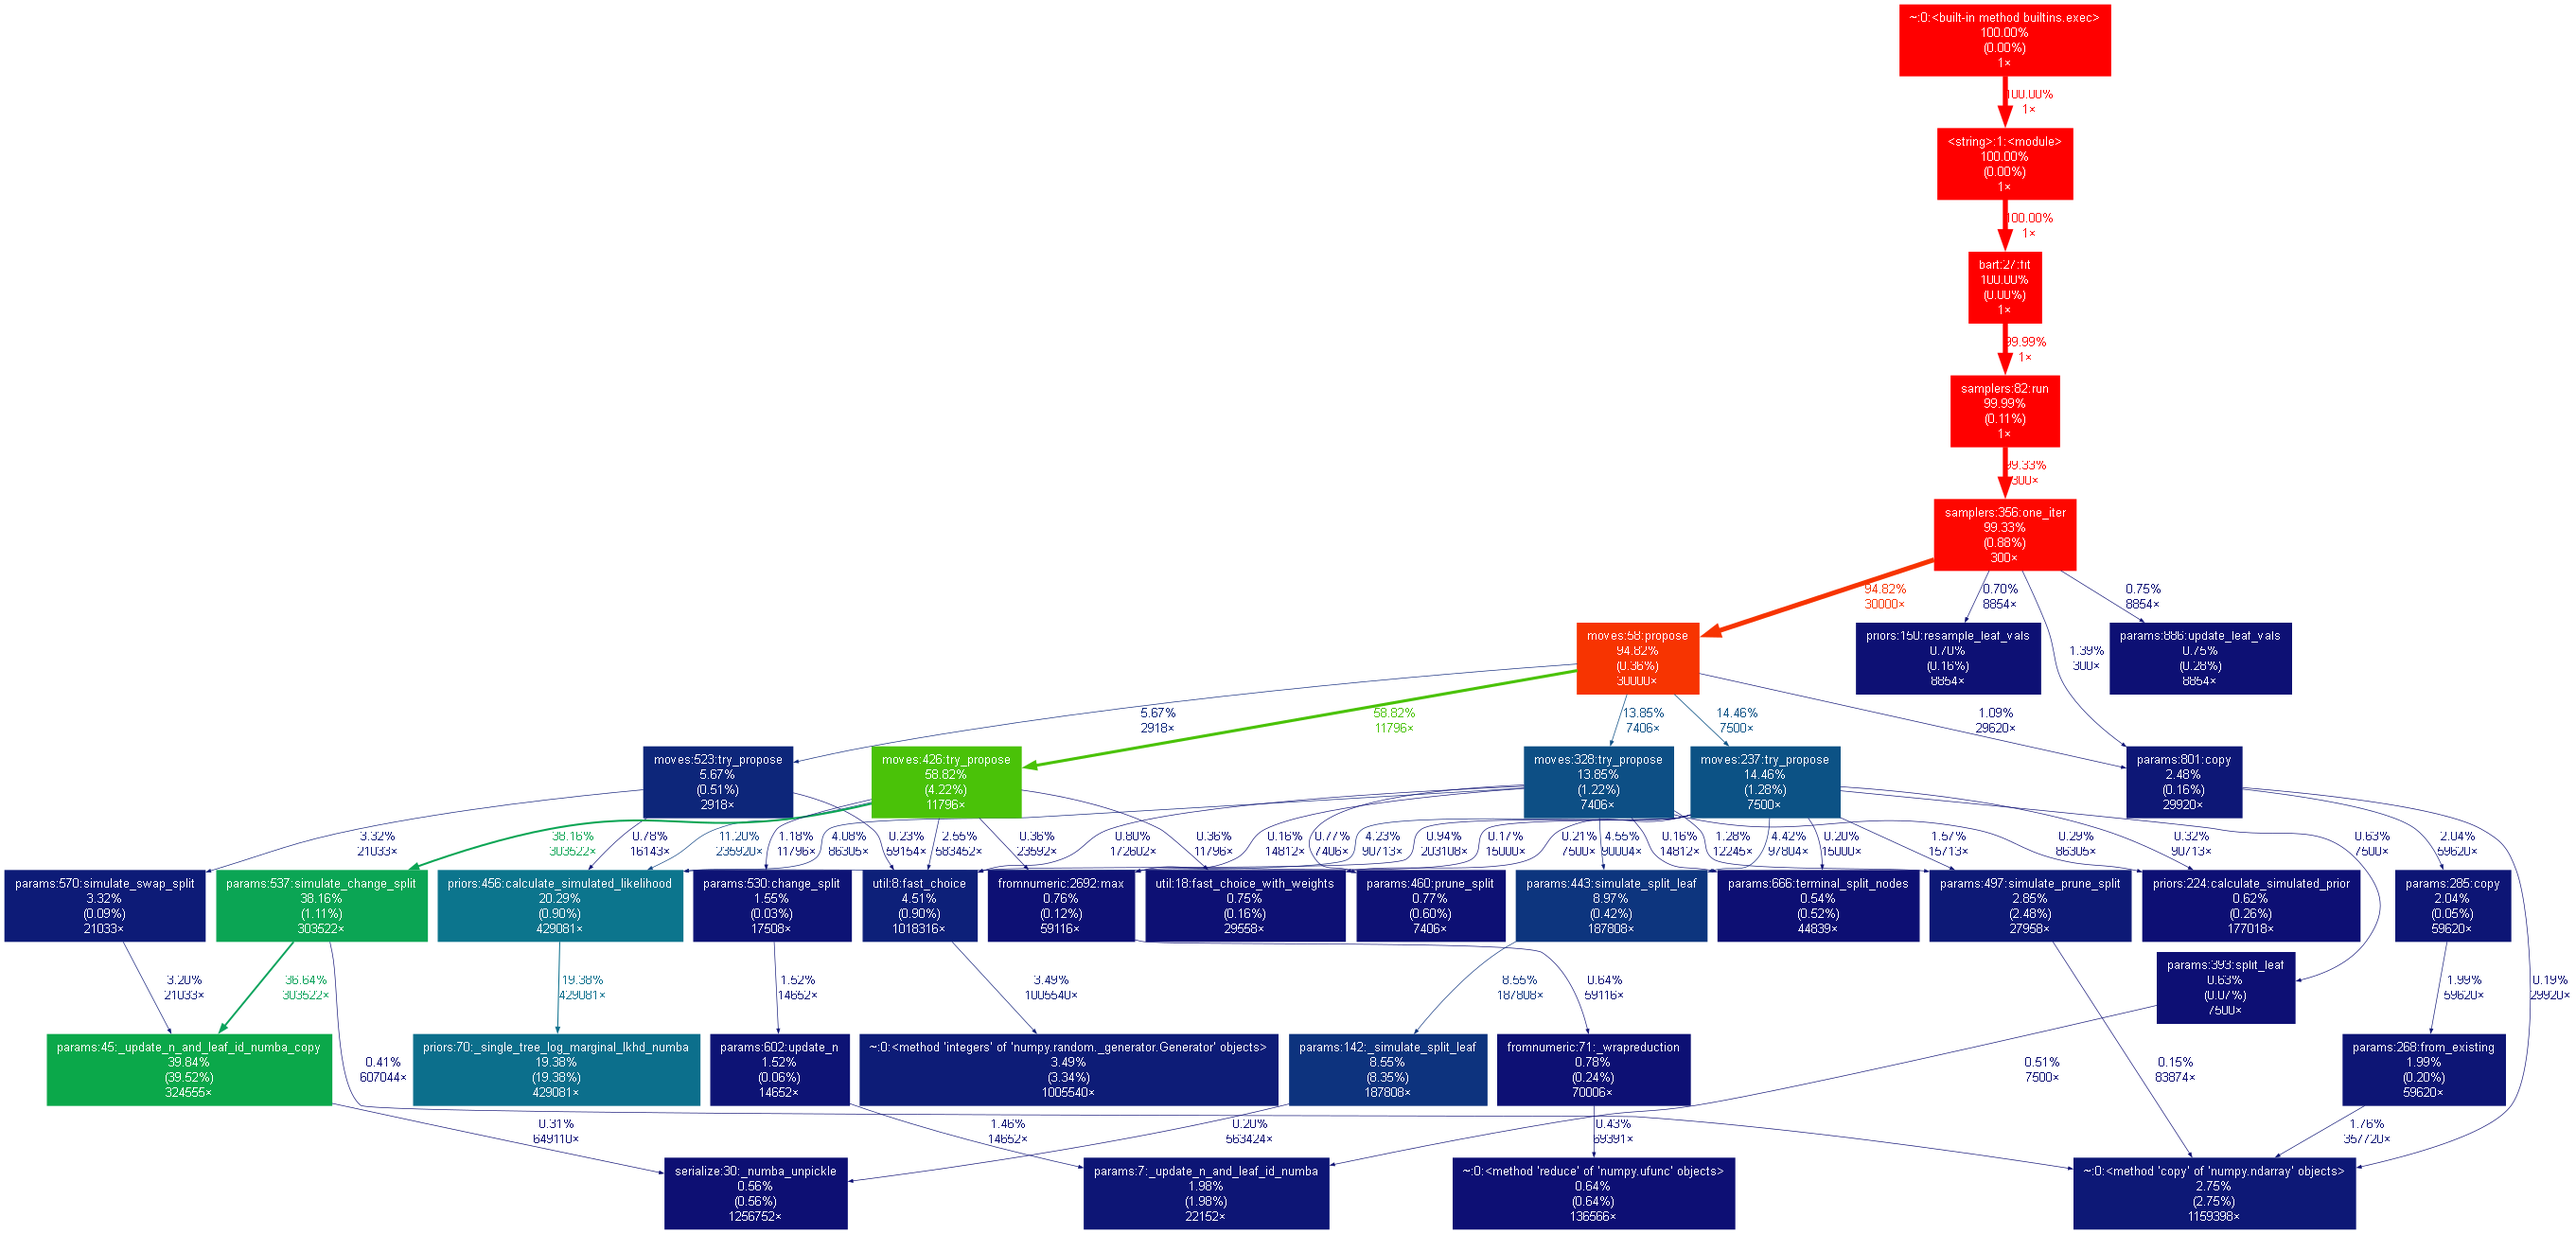
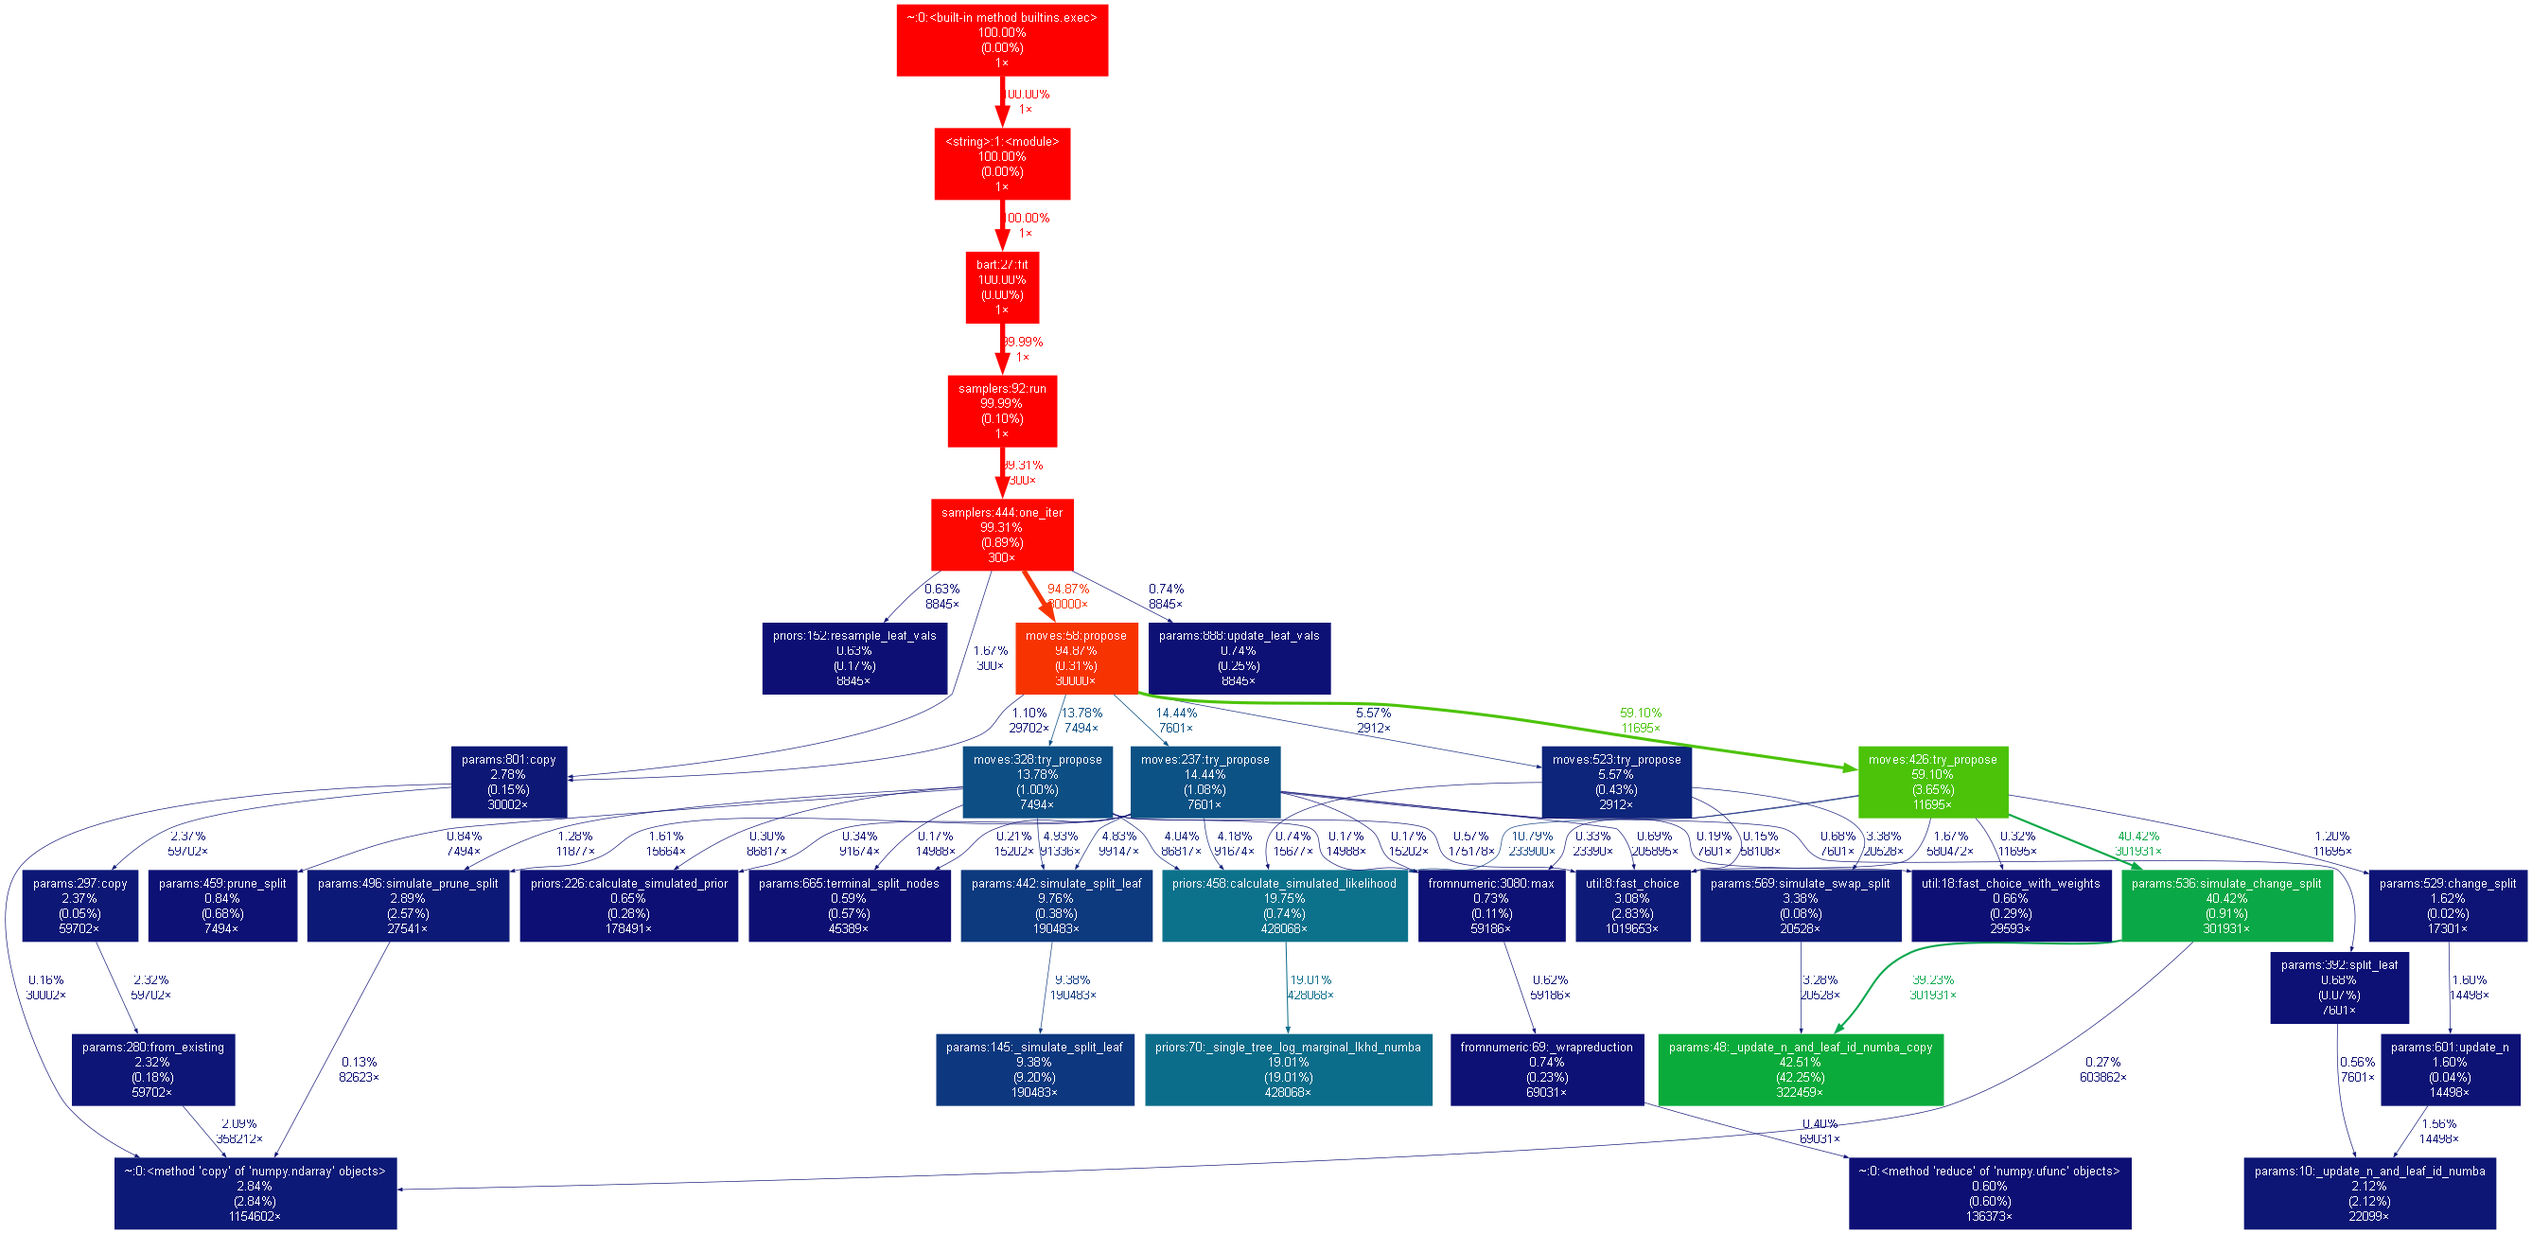
Merge from master. Add dirichlet_prior for MultiBART

Changed region(s): [[0.0, 0.0, 1.0, 1.0]]

diff --git a/bart_playground/samplers.py b/bart_playground/samplers.py
@@ -1,7 +1,7 @@
 import numpy as np
 from tqdm import tqdm
 from abc import ABC, abstractmethod
-from typing import Callable, Optional, Any
+from typing import Callable, Optional, Any, Union
 from scipy.stats import truncnorm   
 
 from .params import Tree, Parameters
@@ -52,7 +52,6 @@ class Sampler(ABC):
         self.n_iter = None
         self.proposals = proposal_probs
         self.temp_schedule = temp_schedule
-        self.multi_tries = multi_tries
         self.trace = []
         self.generator = generator
         # create cache for moves
@@ -393,6 +392,91 @@ class ProbitSampler(Sampler):
         else:
             del iter_trace
             return iter_current
+        
+class MultiSampler(Sampler):
+    """
+    Default implementation of the BART sampler.
+    """
+    def __init__(self, prior : ComprehensivePrior, proposal_probs: dict,
+                 generator : np.random.Generator, temp_schedule=TemperatureSchedule(), tol=1, 
+                 multi_tries: Union[int, list[int]] = 10):
+        self.tol = tol
+        if proposal_probs is None:
+            proposal_probs = {"grow" : 0.5,
+                              "prune" : 0.5}
+        self.tree_prior = prior.tree_prior
+        self.global_prior = prior.global_prior
+        self.likelihood = prior.likelihood
+        self.multi_tries = multi_tries
+        super().__init__(prior, proposal_probs, generator, temp_schedule)
+        # --- Add move statistics ---
+        self.move_selected_counts = {k: 0 for k in self.proposals}
+        self.move_success_counts = {k: 0 for k in self.proposals}
+        self.move_accepted_counts = {k: 0 for k in self.proposals}
+        self.multi_ratios = {
+            "multigrow": [],
+            "multiprune": [],
+            "multichange": [],
+            "multiswap": []
+        }
+
+
+    def get_init_state(self) -> Parameters:
+        """
+        Retrieve the initial state for the sampler.
+
+        Returns:
+            The initial state for the sampler.
+        """
+        if self.data is None:
+            raise AttributeError("Need data before running sampler.")
+        trees = [Tree.new(self.data.X) for _ in range(self.tree_prior.n_trees)]
+        global_params = self.global_prior.init_global_params(self.data)
+        init_state = Parameters(trees, global_params)
+        return init_state
+    
+    def log_mh_ratio(self, move : Move, temp, data_y = None, marginalize : bool=False):
+        """Calculate total log Metropolis-Hastings ratio"""
+        data_y = self.data.y if data_y is None else data_y
+        return move.log_tran_ratio # Already considers prior and likelihood in move.py
+
+    def one_iter(self, current, temp, return_trace=False):
+        """
+        Perform one iteration of the sampler.
+        """
+        iter_current = current.copy() # First make a copy
+        iter_trace = [(0, iter_current)]
+        for k in range(self.tree_prior.n_trees):
+            move_key, move_cls = self.sample_move()
+            self.move_selected_counts[move_key] += 1
+            move = move_cls(
+                iter_current, [k], possible_thresholds=self.possible_thresholds, tol=self.tol,
+                likelihood=self.likelihood, tree_prior=self.tree_prior, data_y=self.data.y,
+                n_samples_list=self.multi_tries
+            )
+            if move.propose(self.generator): # Check if a valid move was proposed
+                self.move_success_counts[move_key] += 1
+                move_name = type(move).__name__.lower()
+                if hasattr(move, "candidate_sampling_ratio"): # Record the sampling ratio for multi-moves
+                    for key in self.multi_ratios:
+                        if key in move_name:
+                            self.multi_ratios[key].append(move.candidate_sampling_ratio)
+                            break
+                Z = self.generator.uniform(0, 1)
+                if np.log(Z) < self.log_mh_ratio(move, temp): # Already consider prior and likelihood in move
+                    self.move_accepted_counts[move_key] += 1
+                    new_leaf_vals = self.tree_prior.resample_leaf_vals(move.proposed, data_y = self.data.y, tree_ids = [k])
+                    move.proposed.update_leaf_vals([k], new_leaf_vals)
+                    iter_current = move.proposed
+                    if return_trace:
+                        iter_trace.append((k+1, move.proposed))
+        iter_current.global_params = self.global_prior.resample_global_params(iter_current, data_y = self.data.y)
+        if return_trace:
+            return iter_trace
+        else:
+            del iter_trace
+            return iter_current
+    
     
 class LogisticSampler(Sampler):
     """
@@ -526,8 +610,8 @@ class LogisticSampler(Sampler):
         else:
             del iter_trace
             return iter_current
-    
-all_samplers = {"default" : DefaultSampler, "binary": ProbitSampler, "logistic": LogisticSampler}
+
+all_samplers = {"default" : DefaultSampler, "multi": MultiSampler, "binary": ProbitSampler, "logistic": LogisticSampler}
 
 default_proposal_probs = {"grow" : 0.25,
                           "prune" : 0.25,

diff --git a/bart_playground/bart.py b/bart_playground/bart.py
@@ -224,11 +224,11 @@ class MultiBART(BART):
                  tree_beta: float=2.0, f_k=2.0, eps_q: float=0.9, 
                  eps_nu: float=3, specification="linear", 
                  proposal_probs=default_proposal_probs, tol=1, max_bins=100,
-                 random_state=42, temperature=1.0, multi_tries=[10,5]):
+                 random_state=42, temperature=1.0, multi_tries=10, dirichlet_prior=False, quick_decay: bool = False):
         preprocessor = DefaultPreprocessor(max_bins=max_bins)
         rng = np.random.default_rng(random_state)
         prior = ComprehensivePrior(n_trees, tree_alpha, tree_beta, f_k, eps_q, 
-                             eps_nu, specification, rng)
+                             eps_nu, specification, rng, dirichlet_prior, quick_decay=quick_decay)
         temp_schedule = self._check_temperature(temperature)
         sampler = MultiSampler(
             prior=prior, proposal_probs=proposal_probs, generator=rng, tol=tol, 

diff --git a/bart_playground/moves.py b/bart_playground/moves.py
@@ -629,7 +629,11 @@ class MultiSwap(Swap):
 all_moves = {"grow" : Grow,
             "prune" : Prune,
             "change" : Change,
-            "swap" : Swap}
+            "swap" : Swap,
+            "multi_grow" : MultiGrow,
+            "multi_prune" : MultiPrune,
+            "multi_change" : MultiChange,
+            "multi_swap" : MultiSwap}
 
 # Mapping of each move to its contrary move used in MH ratio adjustments
 contrary_moves = {
@@ -637,4 +641,8 @@ contrary_moves = {
     "prune": "grow",
     "change": "change",
     "swap": "swap",
+    "multi_grow": "multi_prune",
+    "multi_prune": "multi_grow",
+    "multi_change": "multi_change",
+    "multi_swap": "multi_swap"
 }
